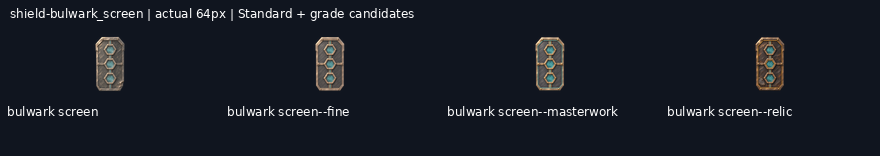
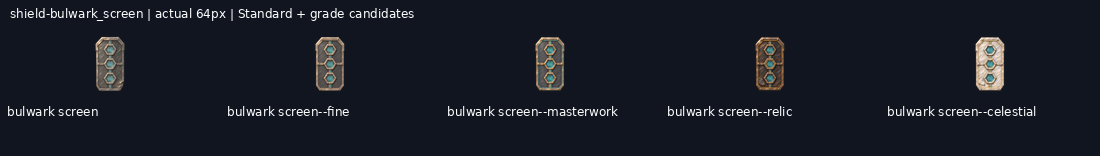
Deliver shield-bulwark_screen--celestial review candidate

diff --git a/art/_archive/gear/2026-11-20-reset-continuation/HANDOFF.md b/art/_archive/gear/2026-11-20-reset-continuation/HANDOFF.md
@@ -1,13 +1,13 @@
 # Reset continuation progress
 
-Branch: `art/2026-11-20-reset-continuation`. New deliveries: 69/94.
+Branch: `art/2026-11-20-reset-continuation`. New deliveries: 70/94.
 
 Shared coordination: https://github.com/leonpentastorm/Project-Heaven-Cry/issues/3 . Read START-HERE.md before extending this queue.
 
 All new entries remain review-candidate; production_approved:false and implementation_ready:false. Exact-outline review remains pending.
 
-Ready jobs: shield-bulwark_screen--celestial, shield-barrier_wall--fine.
+Ready jobs: shield-barrier_wall--fine.
 
-Pending jobs: weapon-hellraiser_rotary--celestial, weapon-purifier_flamer--masterwork, weapon-purifier_flamer--relic, weapon-purifier_flamer--celestial, weapon-dock_cutter--masterwork, weapon-dock_cutter--relic, weapon-dock_cutter--celestial, weapon-broadback_sabre--relic, weapon-broadback_sabre--celestial, weapon-short_draw--fine, weapon-short_draw--masterwork, weapon-short_draw--relic, weapon-short_draw--celestial, weapon-long_draw--fine, weapon-long_draw--masterwork, weapon-long_draw--relic, weapon-long_draw--celestial, weapon-kemizuchi_side_sword--masterwork, weapon-kemizuchi_side_sword--relic, weapon-kemizuchi_side_sword--celestial, shield-bulwark_screen--celestial, shield-barrier_wall--fine, shield-barrier_wall--masterwork, shield-barrier_wall--relic, shield-barrier_wall--celestial.
+Pending jobs: weapon-hellraiser_rotary--celestial, weapon-purifier_flamer--masterwork, weapon-purifier_flamer--relic, weapon-purifier_flamer--celestial, weapon-dock_cutter--masterwork, weapon-dock_cutter--relic, weapon-dock_cutter--celestial, weapon-broadback_sabre--relic, weapon-broadback_sabre--celestial, weapon-short_draw--fine, weapon-short_draw--masterwork, weapon-short_draw--relic, weapon-short_draw--celestial, weapon-long_draw--fine, weapon-long_draw--masterwork, weapon-long_draw--relic, weapon-long_draw--celestial, weapon-kemizuchi_side_sword--masterwork, weapon-kemizuchi_side_sword--relic, weapon-kemizuchi_side_sword--celestial, shield-barrier_wall--fine, shield-barrier_wall--masterwork, shield-barrier_wall--relic, shield-barrier_wall--celestial.
 
 Quota state: null.
